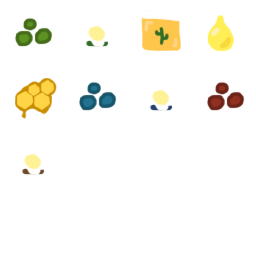
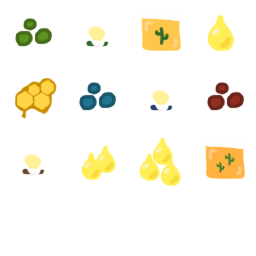
WIP new items for the new types of cactus

Changed region(s): [[0.7812, 0.5625, 0.9688, 0.7188], [0.5312, 0.5312, 0.7188, 0.75], [0.3125, 0.5625, 0.4688, 0.7188]]

diff --git a/server/gameServer.js b/server/gameServer.js
@@ -195,7 +195,7 @@ function processPlanets () {
               }
             } else if (plots[idx].growState === 3) {
               // just stopped flowering
-              if (plots[idx].itemAvailable === "pollen" || plots[idx].itemAvailable === "nectar") {
+              if (plots[idx].itemAvailable.startsWith("pollen") || plots[idx].itemAvailable.startsWith("nectar")) {
                 plots[idx].itemAvailable = null;
               }
               if (Math.random() < .3
@@ -580,13 +580,13 @@ function onUseItem (data) {
 
   var planetChanged = false;
   var itemUsed = false;
-  if (invSlot === "pollen" && plots) {
+  if (invSlot.startsWith("pollen") && plots) {
     if (plots[idx].type === "cactus" && null === plots[idx].pollinatedType) {
       plots[idx].pollinatedType = invSlot;
       itemUsed = true;
       planetChanged = true;
     }
-  } else if (invSlot === "seed" && plots) {
+  } else if (invSlot.startsWith("seed") && plots) {
     if (plots[idx].type === "empty" || plots[idx].type === "cactus") {
       plots[idx] = Plot.generateNewInfo("cactus", metadata.serverTicks);
       plots[idx].variant = 1;
@@ -594,7 +594,7 @@ function onUseItem (data) {
       itemUsed = true;
       planetChanged = true;
     }
-  } else if (invSlot === "nectar" && plots) {
+  } else if (invSlot.startsWith("nectar") && plots) {
     if (plots[idx].type === "beehive") {
       plots[idx].nectar += 10;
       plots[idx].honeyCombCounter += 10;

diff --git a/client/LocalPlot.js b/client/LocalPlot.js
@@ -74,9 +74,9 @@ LocalPlot.prototype.updateButtons = function () {
   var shouldHaveArrowButton = false;
   if (player && player.sittingOnPlanetID === this.hostPlanetObj.planetID && !ownedBySomeoneElse) {
     var pendingUseItem = player.info.inventory[player.selectedItemSlot];
-    shouldHaveArrowButton = (pendingUseItem === "pollen" && this.info.type === "cactus" && this.info.growState === 2 && !this.info.pollinatedType)
-        || (pendingUseItem === "seed" && (this.info.type === "empty" || this.info.type === "cactus"))
-        || (pendingUseItem === "nectar" && this.info.type === "beehive")
+    shouldHaveArrowButton = (pendingUseItem.startsWith("pollen") && this.info.type === "cactus" && this.info.growState === 2 && !this.info.pollinatedType)
+        || (pendingUseItem.startsWith("seed") && (this.info.type === "empty" || this.info.type === "cactus"))
+        || (pendingUseItem.startsWith("nectar") && this.info.type === "beehive")
         || (pendingUseItem === "honeycomb" && this.info.type === "emptybeehive");
   }
   var shouldHaveItemButton = !shouldHaveArrowButton && !ownedBySomeoneElse && this.info.itemAvailable;

diff --git a/common/Item.js b/common/Item.js
@@ -13,15 +13,22 @@
   }
 
   Item.typeToFrame = {
-    seed: 0,
-    pollen: 1,
+    seed_1: 0,
+    pollen_1: 1,
     honey: 2,
-    nectar: 3,
+    nectar_1: 3,
     honeycomb: 4,
+    seed_2: 5,
+    pollen_2: 6,
+    seed_3: 7,
+    pollen_3: 8,
+    nectar_2: 9,
+    nectar_3: 10,
+    superhoney: 11,
   }
 
   Item.requiresTarget = function (item) {
-    return (item === "pollen" || item === "seed" || item === "nectar" || item === "honeycomb");
+    return (item.startsWith("pollen") || item.startsWith("seed") || item.startsWith("nectar") || item === "honeycomb");
   }
 
   if (typeof module !== 'undefined' && typeof module.exports !== 'undefined') {
